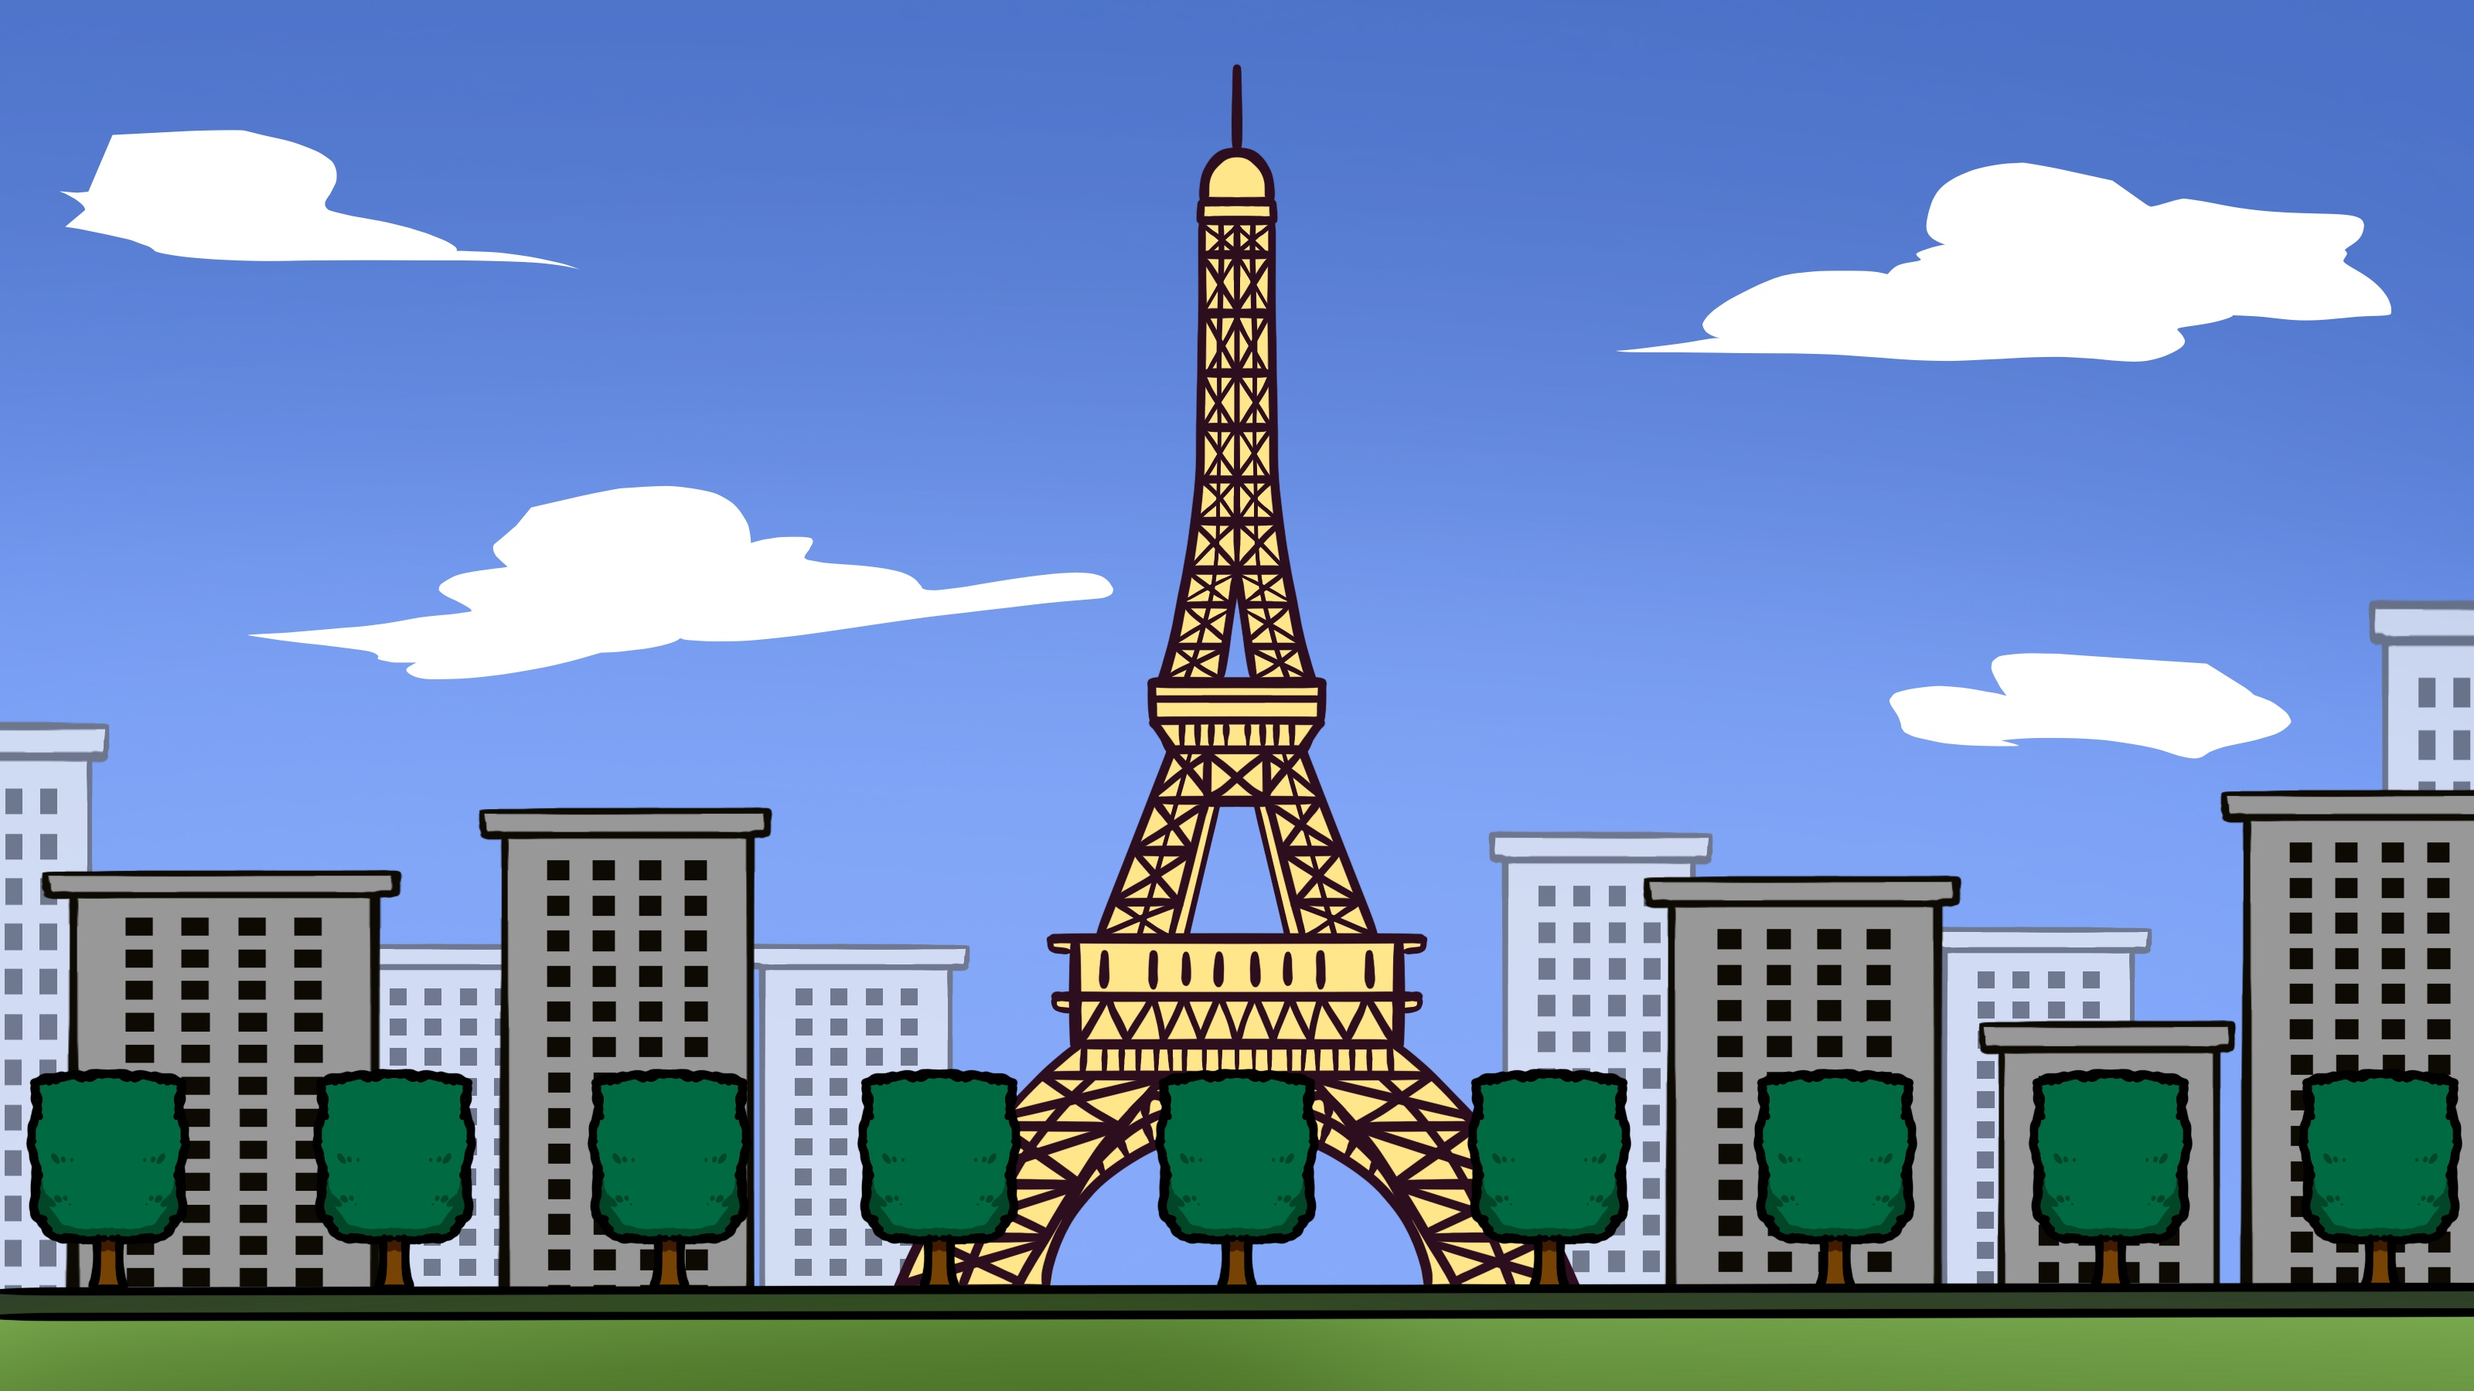
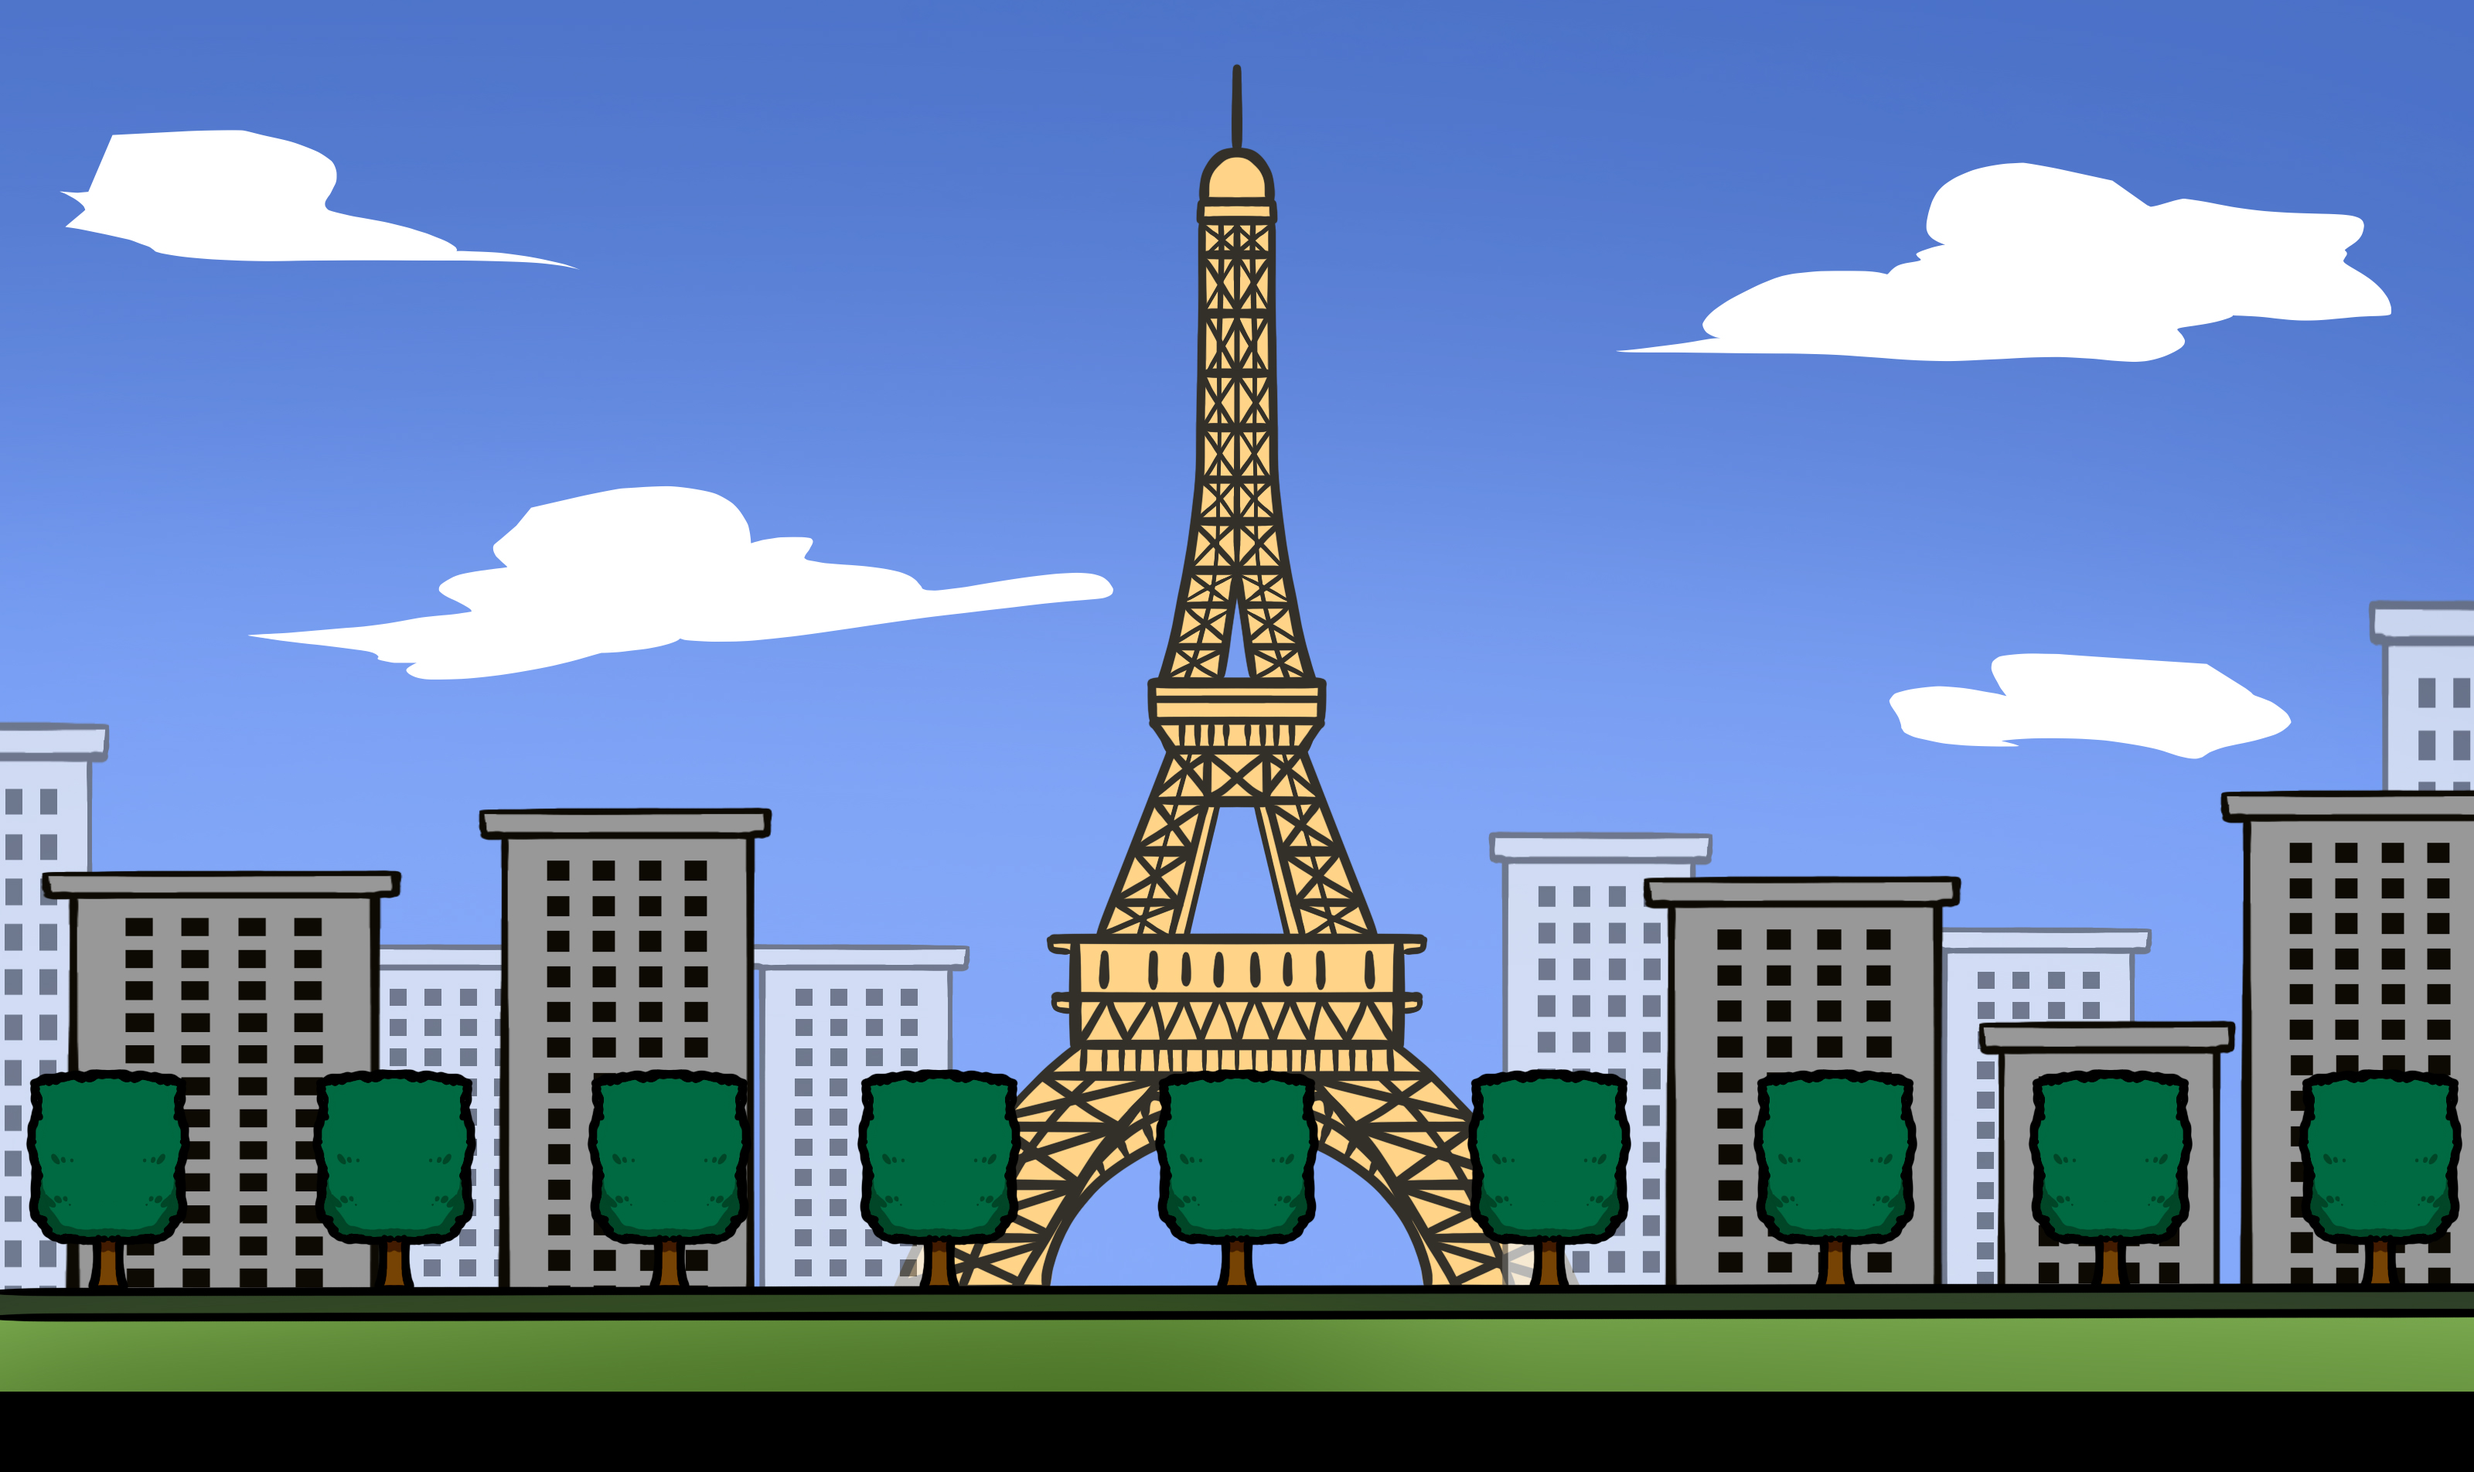
เเก้ position bg

diff --git a/css/styles.css b/css/styles.css
@@ -136,6 +136,37 @@ section {
   background-size: auto;
 }
 /****************************** Data-Set-background ******************************/
+#page1 {
+  background-image: url(/background/กรีซ1.JPG);
+  background-size: cover; 
+  background-repeat: no-repeat;                    
+  background-position: bottom; 
+}
+#page2 {
+  background-image: url(/background/ฝรั่งเศส.JPG);
+  background-size: cover; 
+  background-repeat: no-repeat;                    
+  background-position: bottom; 
+}
+#page3 {
+  background-image: url(/background/ลอนดอน.JPG);
+  background-size: cover; 
+  background-repeat: no-repeat;                    
+  background-position: bottom ; 
+}
+#page4 {
+  background-image: url(/background/ออสเตรเลีย.JPG);
+  background-size: cover; 
+  background-repeat: no-repeat;                    
+  background-position: bottom; 
+}
+#page5 {
+  background-image: url(/background/ญี่ปุ่น.jpg);
+  background-size: cover; 
+  background-repeat: no-repeat;                    
+  background-position: bottom; 
+}
+
 
 
 /****************************** Grid ******************************/
